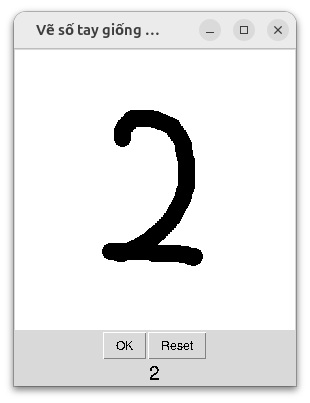
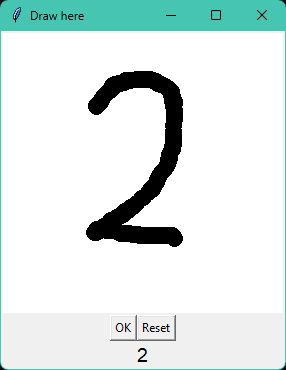
demo

Changed region(s): [[0.0, 0.0, 1.0, 1.0], [0.2797, 0.1784, 0.6713, 0.6838]]

diff --git a/output.py b/output.py
@@ -42,7 +42,7 @@ class App:
         self.reset_button = tk.Button(self.button_frame, text="Reset", command=self.clear)
         self.reset_button.pack(side=tk.LEFT)
 
-        self.result_label = tk.Label(self.root, text="Vẽ một số rồi nhấn OK", font=('Arial', 14))
+        self.result_label = tk.Label(self.root, text="Draw and press OK", font=('Arial', 14))
         self.result_label.pack()
 
         self.image = Image.new("L", (self.canvas_size, self.canvas_size), color=255)
@@ -59,7 +59,7 @@ class App:
     def clear(self):
         self.canvas.delete("all")
         self.draw.rectangle([0, 0, self.canvas_size, self.canvas_size], fill=255)
-        self.result_label.config(text="Vẽ một số rồi nhấn OK")
+        self.result_label.config(text="Draw and press OK")
 
     def predict(self):
         # Resize ảnh về 28x28
